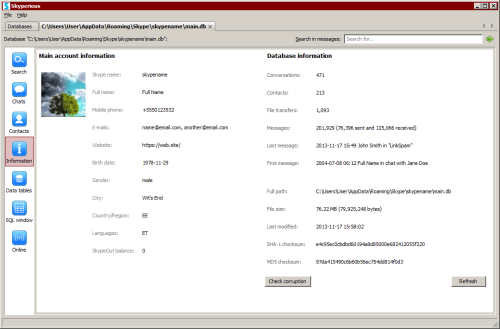
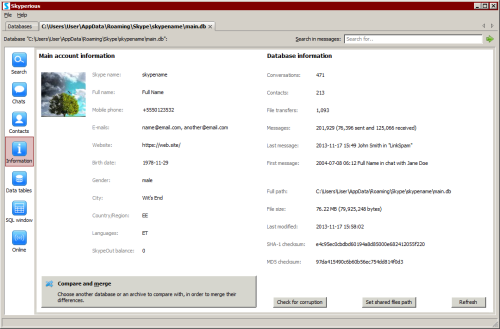
Update texts, links and screenshots to v5.9.

Changed region(s): [[0.06, 0.8207, 0.66, 0.9422], [0.9, 0.8207, 0.99, 0.9422], [0.72, 0.8815, 0.84, 0.9422]]

diff --git a/index.html b/index.html
@@ -32,6 +32,7 @@
         <p class="view">
           <a href="index.html">Index</a><br />
           <span class="subview">
+            <a href="#history">History</a><br />
             <a href="#using">Using the program</a><br />
             <a href="#attribution">Attribution</a><br />
             <a href="#license">License</a><br />
@@ -45,60 +46,88 @@
           <a href="https://github.com/suurjaak/Skyperious">View the Project on GitHub <small>suurjaak/Skyperious</small></a>
         </p>
         <ul>
-          <li><a href="https://erki.lap.ee/downloads/Skyperious/skyperious_5.8_setup.exe">Download <strong>Setup</strong></a></li>
-          <li><a href="https://erki.lap.ee/downloads/Skyperious/skyperious_5.8.exe">Download <strong>Executable</strong></a></li>
-          <li><a href="https://erki.lap.ee/downloads/Skyperious/skyperious_5.8-src.zip">Download <strong>Source</strong></a></li>
+          <li><a href="https://erki.lap.ee/downloads/Skyperious/skyperious_5.9_setup.exe">Download <strong>Setup</strong></a></li>
+          <li><a href="https://erki.lap.ee/downloads/Skyperious/skyperious_5.9.exe">Download <strong>Executable</strong></a></li>
+          <li><a href="https://erki.lap.ee/downloads/Skyperious/skyperious_5.9-src.zip">Download <strong>Source</strong></a></li>
         </ul>
       </header>
 
 <section>
 
-<h2>Regarding Skype 2025 Shutdown</h2>
-
-<p>As of 2025 May, there is no more Skype service, and after that,
-Skyperious can obviously no longer download message history from online service.</p>
-
-<p>It can still import Skype export archives into a local database.</p>
-
-<p>Note that in 2025 March, the online service became strongly rate limited,
-making live sync in Skyperious rather slow.</p>
-
-
-<h2>Important notice from 2020</h2>
-
-<p>Around 2017, starting from Skype version 8, Skype moved away from its famous
-peer-to-peer architecture to a client-server system, and started to store 
-conversation history on its own servers only.</p>
-
-<p>Formerly, it used a local SQLite <code>main.db</code> database to store chats and messages,
-which is what Skyperious was originally created to work with - merging chat 
-histories from different computers into one.</p>
-
-<p>Skyperious still works with existing <code>main.db</code> files, and can also download
-newer messages from Skype online service. But any changes done to the database
-no longer affect what is visible in the official Skype program.</p>
-
-<hr />
-
-
 <p>Skyperious is a Skype chat history tool.</p>
 
-You can open Skype SQLite databases and work with their contents:
-<ul>
-<li>import messages from Skype online service and Skype export archives</li>
-<li>search across all messages and contacts</li>
-<li>read chat history in full, see chat statistics and word clouds</li>
-<li>export chats as HTML, text or spreadsheet</li>
-<li>view any database table and and export their data</li>
-<li>change, add or delete data in any table</li>
-<li>execute direct SQL queries</li>
-</ul>
+<p>
+You can open and browse Skype's <code>main.db</code> databases from before Skype version 8,
+or create such databases from Skype online service and Skype export archives.
+</p>
 
 <p>
-Additionally, it doubles as a useful database tool for any SQLite file.<br />
-Also, a <a href="help.html#commandline">command line interface</a> is available
-with key functions like exporting, searching, syncing, and merging.<br />
+With an opened database, you can:
+
+<ul>
+<li>search across all messages and contacts</li>
+<li>read chat history in full, see chat statistics and word clouds</li>
+<li>export chats and contacts as HTML, text or spreadsheet</li>
+<li>compare and synchronize messages with another Skype database, merging their differences</li>
+</ul>
+</p>
+
+<p>
+Additionally, it doubles as a useful database tool for any SQLite file:
+
+<ul>
+<li>view and filter database tables, fix database corruption</li>
+<li>change, add or delete data in tables</li>
+<li>execute direct SQL queries</li>
+<li>export tables and query results as HTML, SQL or spreadsheet</li>
+</ul>
+</p>
+
+<p>
+Also, a <a href="help.html#commandline">command line interface</a>
+is available with key functions like exporting, searching, syncing, and merging.
 The graphical version includes a Python console window.
+</p>
+
+
+<a name="history"><h2>History</h2></a>
+
+<p>
+Skyperious was initially written in 2012 to work with local Skype databases
+(<code>main.db</code> files in user folders),
+mostly in order to merge chat histories from different computers
+with different slices of chat history.
+</p>
+
+<p>
+Over time it grew into a more general tool to search and export Skype chat history,
+and manage the local Skype database e.g. pruning unneeded contacts.
+It could also communicate with a local running Skype instance, to add contacts
+from a file exported from MSN / GMail and the like.
+</p>
+
+<p>
+Around 2017, starting from Skype version 8, Skype moved away from its famous
+peer-to-peer architecture to a client-server system, closed API access to local
+running Skype instances, and started to store conversation history on its own servers only.
+</p>
+
+<p>
+Skyperious was updated to be able to create new local Skype databases,
+by downloading messages from Skype online service via login inside Skyperious,
+or by importing a Skype export archive (a <code>.tar</code> archive manually downloaded
+from Skype website, containing a <code>messages.json</code> file).
+</p>
+
+<p>
+In 2025 May, Skype is shut down altogether, and its accounts migrated to Microsoft Teams.
+</p>
+
+<p>
+Skyperious is still able to import Skype export archives, 
+and work locally with the database as before,
+but synchronizing messages from Skype online will no longer be possible
+once the online service is terminated.
 </p>
 
 
@@ -110,7 +139,7 @@ automatically, or you can select specific files or folders.
 Once added to the database list, a file can be opened for browsing, searching 
 and exporting, or compared with another database for merging.
 </p><p>
-Searching an opened database supports a simple query syntax. 
+Searching an opened database supports a simple <a hreF="help.html">query syntax</a>. 
 You can use keywords to search among specific authors or chats only
 (<code>from:john</code>, <code>chat:links</code>), or from certain dates only 
 (<code>date:2012</code>, <code>date:2010..2013-06</code>). Search supports 
@@ -120,13 +149,11 @@ Skyperious can log into Skype online service and download and save new messages
 int the local database file. It can also create a new <code>main.db</code> database from 
 scratch, by downloading all available history.
 </p><p>
-HTML export can download shared photos and embed them in the resulting HTML,
-if password for the Skype account has been entered in online-page.
-This can be disabled in File -> Advanced Options -> SharedImageAutoDownload.
-Image download is also supported in the command-line interface.
+Skyperious stores shared files and media in a subfolder next to the database,
+browsable by themselves, available as in-program links, and embedded in HTML exports.
 </p><p>
-In database comparison, you can scan one database for messages not found in
-the other, and copy all detected messages to the other database. Or you can 
+In database comparison, you can scan one database for messages and shares not found in
+the other, and copy all detected differences to the other database. Or you can 
 browse and copy specific chats and contacts.
 </p><p>
 Skyperious can also merge chat history exported from Skype into an existing 
@@ -160,17 +187,10 @@ elsewhere, same goes for the source code. The command line interface only needs
 Python to run.
 </p>
 <p>
-Skyperious has been tested under Windows 10, Windows 7, Windows Vista, Windows XP
+Skyperious has been tested under Windows 11, Windows 10, Windows 7, Windows Vista, Windows XP
 and Ubuntu Linux, and reported to work under OS X and Windows 8. In source code
 form, it should run wherever Python and the required Python packages are
 installed.
-</p>
-<p>
-If running from pip installation, run <code>skyperious</code> from the command-line. <br />
-If running from straight source code, go to Skyperious directory, and launch 
-<code>skyperious.sh</code> where shell scripts are supported, or launch 
-<code>skyperious.bat</code> under Windows, or open a terminal and run 
-<code>python -m skyperious</code>.
 </p>
 
 

diff --git a/changelog.html b/changelog.html
@@ -40,14 +40,32 @@
           <a href="https://github.com/suurjaak/Skyperious">View the Project on GitHub <small>suurjaak/Skyperious</small></a>
         </p>
         <ul>
-          <li><a href="https://erki.lap.ee/downloads/Skyperious/skyperious_5.8_setup.exe">Download <strong>Setup</strong></a></li>
-          <li><a href="https://erki.lap.ee/downloads/Skyperious/skyperious_5.8.exe">Download <strong>Executable</strong></a></li>
-          <li><a href="https://erki.lap.ee/downloads/Skyperious/skyperious_5.8-src.zip">Download <strong>Source</strong></a></li>
+          <li><a href="https://erki.lap.ee/downloads/Skyperious/skyperious_5.9_setup.exe">Download <strong>Setup</strong></a></li>
+          <li><a href="https://erki.lap.ee/downloads/Skyperious/skyperious_5.9.exe">Download <strong>Executable</strong></a></li>
+          <li><a href="https://erki.lap.ee/downloads/Skyperious/skyperious_5.9-src.zip">Download <strong>Source</strong></a></li>
         </ul>
       </header>
 
       <section>
         <h2>Changelog</h2>
+
+        <h4>v5.9, 2025-04-29:</h4>
+        <ul>
+          <li>store shared files and media locally (issue #135)</li>
+          <li>show file and media sharing messages without link to Skype online</li>
+          <li>present card and sticker messages as media sharing</li>
+          <li>add compare&merge button to database information page</li>
+          <li>offer to retain partial database on canceling import of Skype export archive</li>
+          <li>make configurable whether to confirm automatic login to Skype online for shared content during export</li>
+          <li>fix toolbar icons getting rescaled poorly on newer wx versions</li>
+          <li>fix database diff mistakenly marking participants as new</li>
+          <li>fix chat diff Excel export ignoring diff and exporting all messages</li>
+          <li>fix error on contacts list popup menu after deleting all contacts</li>
+          <li>fix contacts HTML export not accounting for duplicate identities when sorting or toggling</li>
+          <li>fix filesystem links over-encoding paths with exotic characters</li>
+          <li>use contact name in file transfer statistics instead of display name registered in transfer</li>
+          <li>drop shared media cache introduced in issue #112 as obsolete</li>
+        </ul>
 
         <h4>v5.8, 2025-03-27:</h4>
         <ul>

diff --git a/downloads.html b/downloads.html
@@ -28,7 +28,7 @@
     <div class="wrapper">
       <header>
         <h1>Skyperious</h1>
-        <p>Skype SQLite database viewer and merger</p>
+        <p>Skype chat history tool</p>
         <p class="view">
           <a href="index.html">Index</a><br />
           <a href="downloads.html">Downloads</a><br />
@@ -40,9 +40,9 @@
           <a href="https://github.com/suurjaak/Skyperious">View the Project on GitHub <small>suurjaak/Skyperious</small></a>
         </p>
         <ul>
-          <li><a href="https://erki.lap.ee/downloads/Skyperious/skyperious_5.8_setup.exe">Download <strong>Setup</strong></a></li>
-          <li><a href="https://erki.lap.ee/downloads/Skyperious/skyperious_5.8.exe">Download <strong>Executable</strong></a></li>
-          <li><a href="https://erki.lap.ee/downloads/Skyperious/skyperious_5.8-src.zip">Download <strong>Source</strong></a></li>
+          <li><a href="https://erki.lap.ee/downloads/Skyperious/skyperious_5.9_setup.exe">Download <strong>Setup</strong></a></li>
+          <li><a href="https://erki.lap.ee/downloads/Skyperious/skyperious_5.9.exe">Download <strong>Executable</strong></a></li>
+          <li><a href="https://erki.lap.ee/downloads/Skyperious/skyperious_5.9-src.zip">Download <strong>Source</strong></a></li>
         </ul>
       </header>
       <section>

diff --git a/help.html b/help.html
@@ -29,7 +29,7 @@
     <div class="wrapper">
       <header>
         <h1>Skyperious</h1>
-        <p>Skype SQLite database viewer and merger</p>
+        <p>Skype chat history tool</p>
         <p class="view">
           <a href="index.html">Index</a><br />
           <a href="downloads.html">Downloads</a><br />
@@ -45,9 +45,9 @@
           <a href="https://github.com/suurjaak/Skyperious">View the Project on GitHub <small>suurjaak/Skyperious</small></a>
         </p>
         <ul>
-          <li><a href="https://erki.lap.ee/downloads/Skyperious/skyperious_5.8_setup.exe">Download <strong>Setup</strong></a></li>
-          <li><a href="https://erki.lap.ee/downloads/Skyperious/skyperious_5.8.exe">Download <strong>Executable</strong></a></li>
-          <li><a href="https://erki.lap.ee/downloads/Skyperious/skyperious_5.8-src.zip">Download <strong>Source</strong></a></li>
+          <li><a href="https://erki.lap.ee/downloads/Skyperious/skyperious_5.9_setup.exe">Download <strong>Setup</strong></a></li>
+          <li><a href="https://erki.lap.ee/downloads/Skyperious/skyperious_5.9.exe">Download <strong>Executable</strong></a></li>
+          <li><a href="https://erki.lap.ee/downloads/Skyperious/skyperious_5.9-src.zip">Download <strong>Source</strong></a></li>
         </ul>
       </header>
       <section>

diff --git a/faq.html b/faq.html
@@ -40,9 +40,9 @@
           <a href="https://github.com/suurjaak/Skyperious">View the Project on GitHub <small>suurjaak/Skyperious</small></a>
         </p>
         <ul>
-          <li><a href="https://erki.lap.ee/downloads/Skyperious/skyperious_5.8_setup.exe">Download <strong>Setup</strong></a></li>
-          <li><a href="https://erki.lap.ee/downloads/Skyperious/skyperious_5.8.exe">Download <strong>Executable</strong></a></li>
-          <li><a href="https://erki.lap.ee/downloads/Skyperious/skyperious_5.8-src.zip">Download <strong>Source</strong></a></li>
+          <li><a href="https://erki.lap.ee/downloads/Skyperious/skyperious_5.9_setup.exe">Download <strong>Setup</strong></a></li>
+          <li><a href="https://erki.lap.ee/downloads/Skyperious/skyperious_5.9.exe">Download <strong>Executable</strong></a></li>
+          <li><a href="https://erki.lap.ee/downloads/Skyperious/skyperious_5.9-src.zip">Download <strong>Source</strong></a></li>
         </ul>
       </header>
       <section>

diff --git a/install.html b/install.html
@@ -51,9 +51,9 @@
           <a href="https://github.com/suurjaak/Skyperious">View the Project on GitHub <small>suurjaak/Skyperious</small></a>
         </p>
         <ul>
-          <li><a href="https://erki.lap.ee/downloads/Skyperious/skyperious_5.8_setup.exe">Download <strong>Setup</strong></a></li>
-          <li><a href="https://erki.lap.ee/downloads/Skyperious/skyperious_5.8.exe">Download <strong>Executable</strong></a></li>
-          <li><a href="https://erki.lap.ee/downloads/Skyperious/skyperious_5.8-src.zip">Download <strong>Source</strong></a></li>
+          <li><a href="https://erki.lap.ee/downloads/Skyperious/skyperious_5.9_setup.exe">Download <strong>Setup</strong></a></li>
+          <li><a href="https://erki.lap.ee/downloads/Skyperious/skyperious_5.9.exe">Download <strong>Executable</strong></a></li>
+          <li><a href="https://erki.lap.ee/downloads/Skyperious/skyperious_5.9-src.zip">Download <strong>Source</strong></a></li>
         </ul>
       </header>
       <section>

diff --git a/screens.html b/screens.html
@@ -35,9 +35,9 @@
           <a href="https://github.com/suurjaak/Skyperious">View the Project on GitHub <small>suurjaak/Skyperious</small></a>
         </p>
         <ul>
-          <li><a href="https://erki.lap.ee/downloads/Skyperious/skyperious_5.8_setup.exe">Download <strong>Setup</strong></a></li>
-          <li><a href="https://erki.lap.ee/downloads/Skyperious/skyperious_5.8.exe">Download <strong>Executable</strong></a></li>
-          <li><a href="https://erki.lap.ee/downloads/Skyperious/skyperious_5.8-src.zip">Download <strong>Source</strong></a></li>
+          <li><a href="https://erki.lap.ee/downloads/Skyperious/skyperious_5.9_setup.exe">Download <strong>Setup</strong></a></li>
+          <li><a href="https://erki.lap.ee/downloads/Skyperious/skyperious_5.9.exe">Download <strong>Executable</strong></a></li>
+          <li><a href="https://erki.lap.ee/downloads/Skyperious/skyperious_5.9-src.zip">Download <strong>Source</strong></a></li>
         </ul>
       </header>
       <section>
